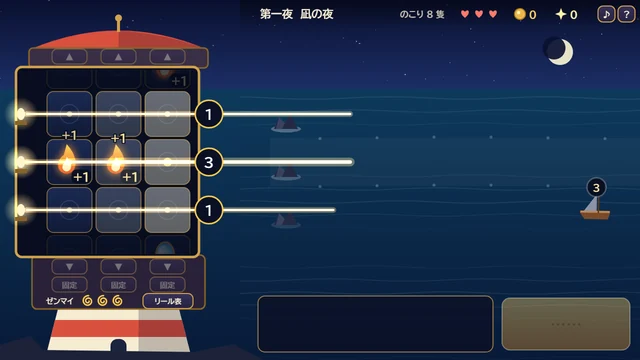
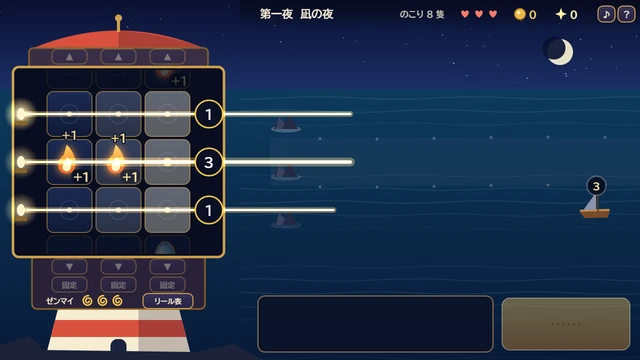
LUMEN REEL の灯室の表示ずれを修正

Changed region(s): [[0.2812, 0.1833, 0.375, 0.7333], [0.0, 0.1833, 0.0625, 0.7333], [0.9062, 0.4889, 0.9688, 0.6111]]

diff --git a/game4/js/render.js b/game4/js/render.js
@@ -345,7 +345,8 @@
     g.fillStyle = R.C.brass; g.fillRect(mid - 3, yT - 96, 6, 26); g.beginPath(); g.arc(mid, yT - 98, 7, 0, 7); g.fill();
     R.rr(g, x0 - 18, yT - 38, x1 - x0 + 36, 40, 8); g.fillStyle = '#3a2f46'; g.fill(); g.strokeStyle = R.C.brassD; g.lineWidth = 3; g.stroke();
     // 灯室
-    R.rr(g, x0 - 44, yT, x1 - x0 + 44, yB - yT, 12); g.fillStyle = '#080d20'; g.fill();
+    const framePadding = 50;
+    R.rr(g, x0 - framePadding, yT, x1 - x0 + 2 * framePadding, yB - yT, 12); g.fillStyle = '#080d20'; g.fill();
     g.lineWidth = 5; g.strokeStyle = R.C.brass; g.stroke();
     // 光源
     const sx = R.SRCX - 20;
